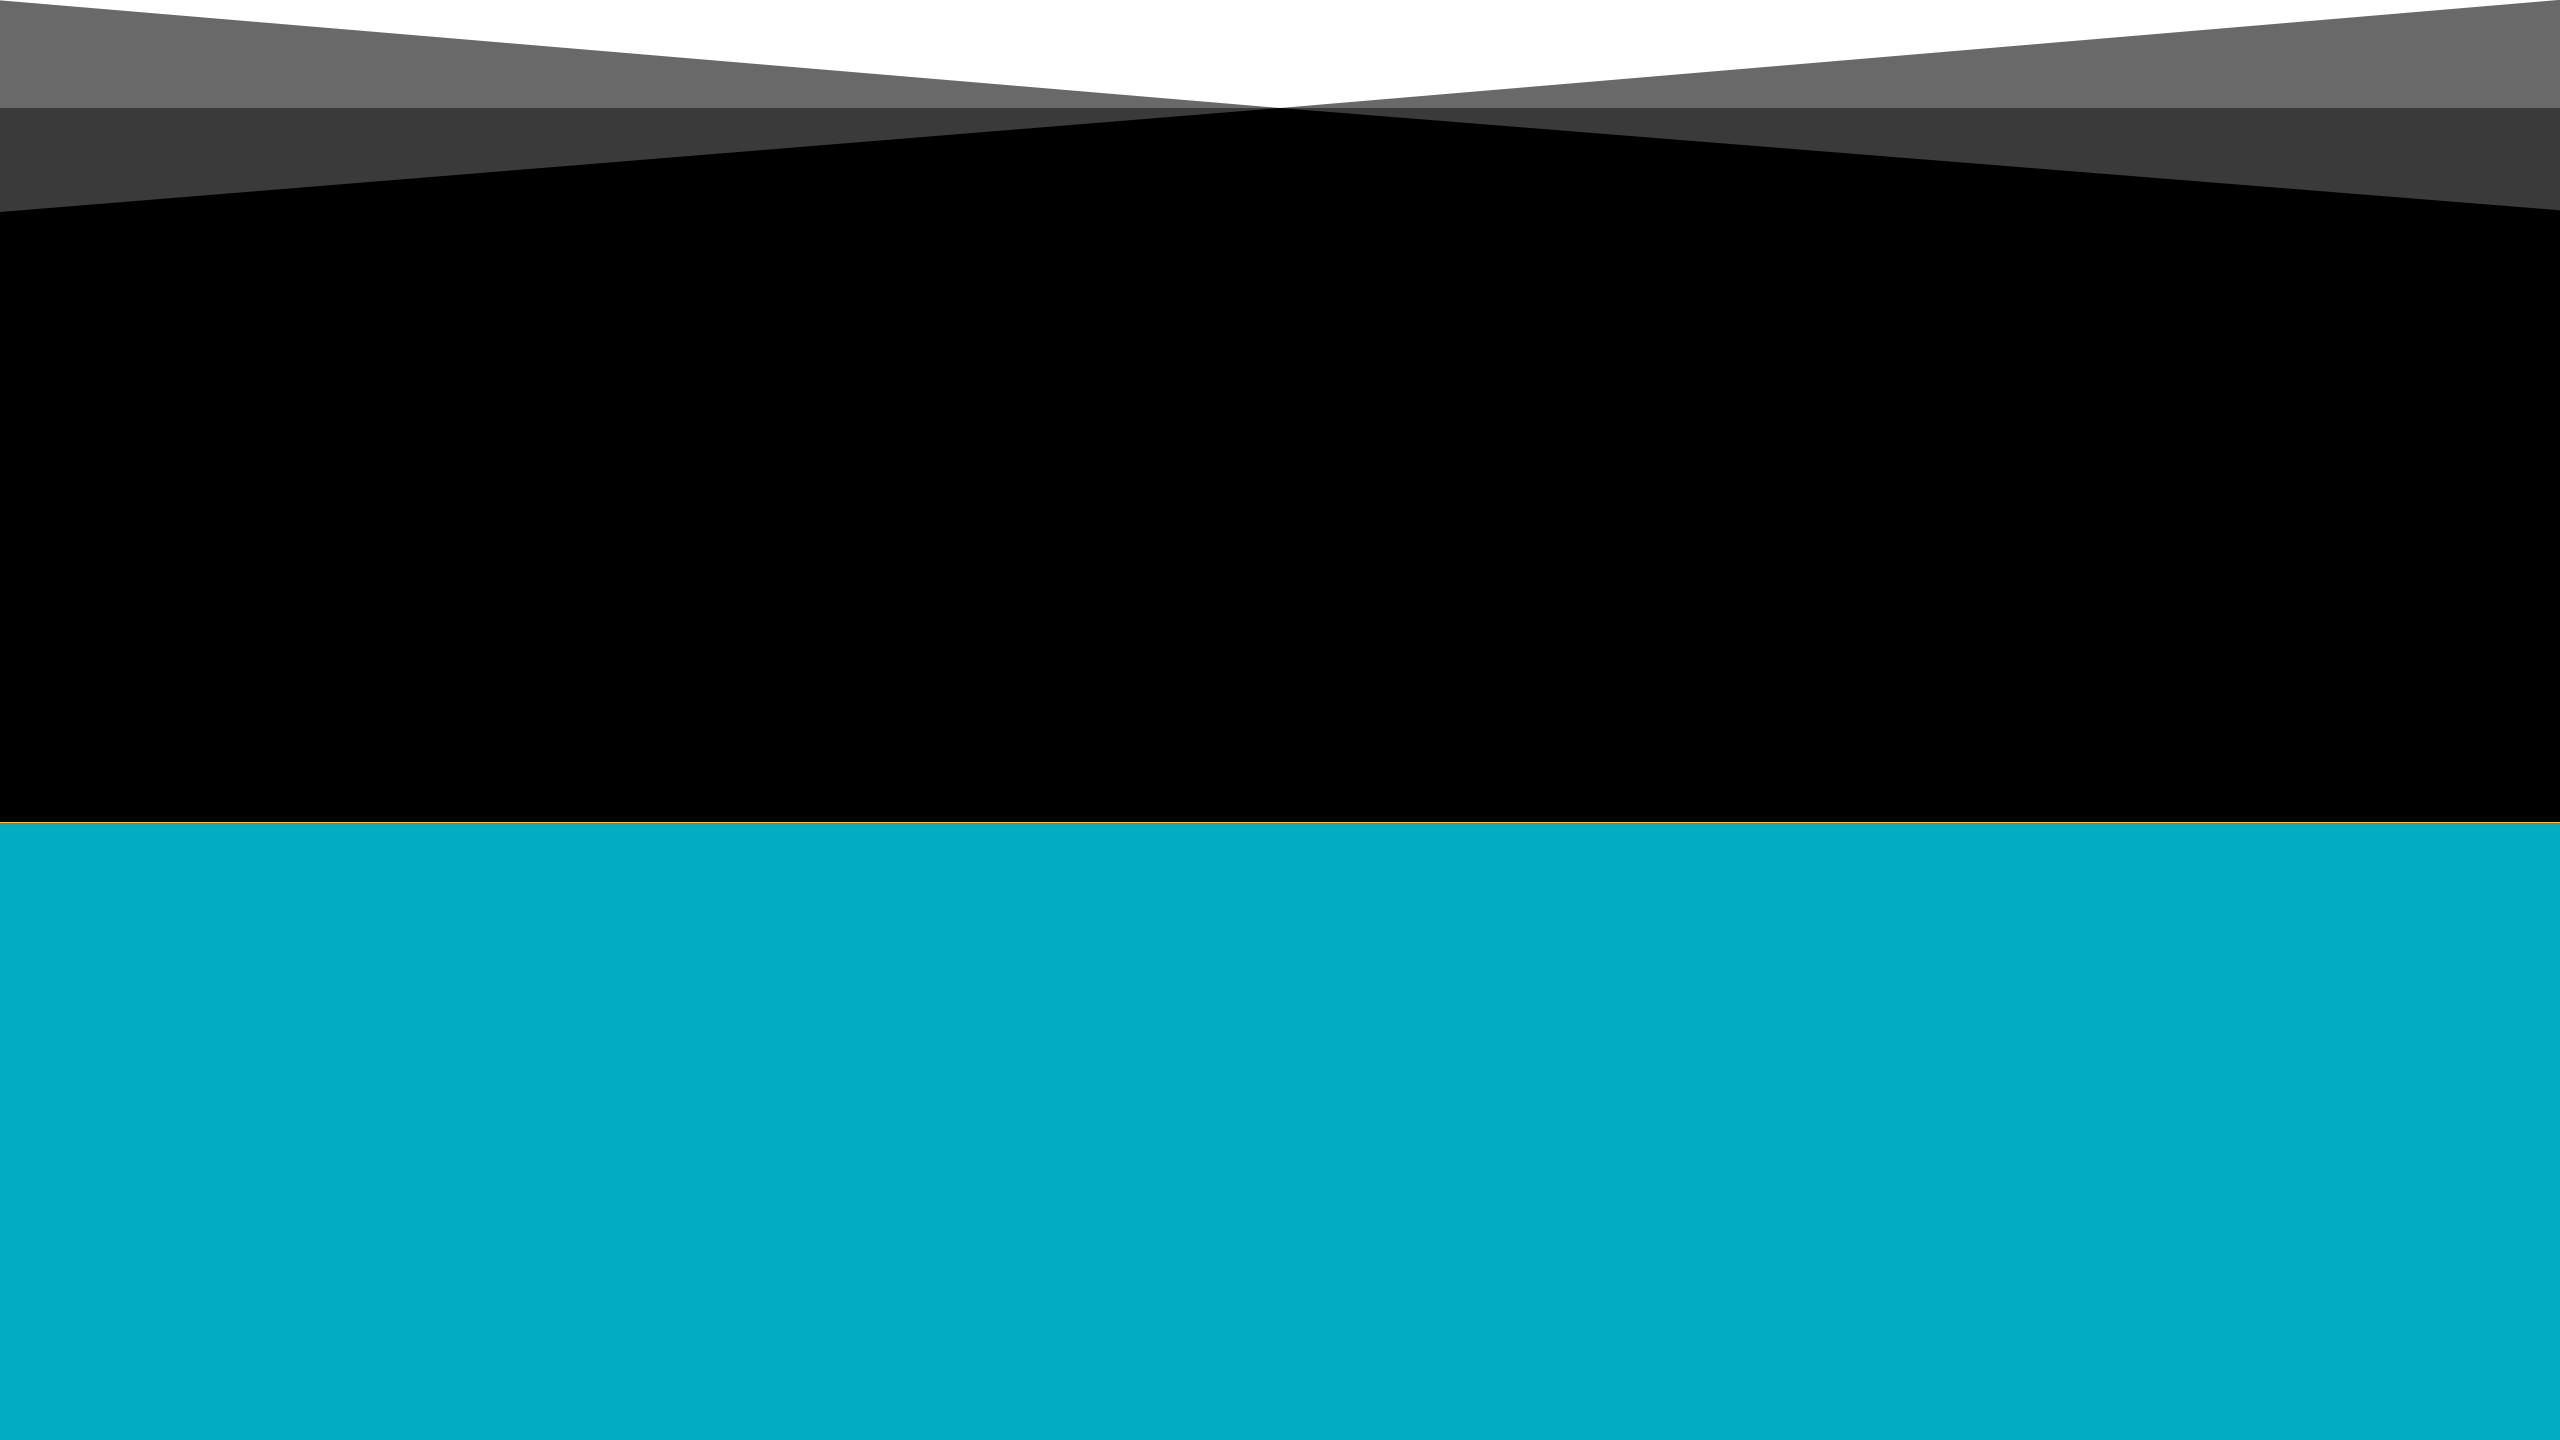
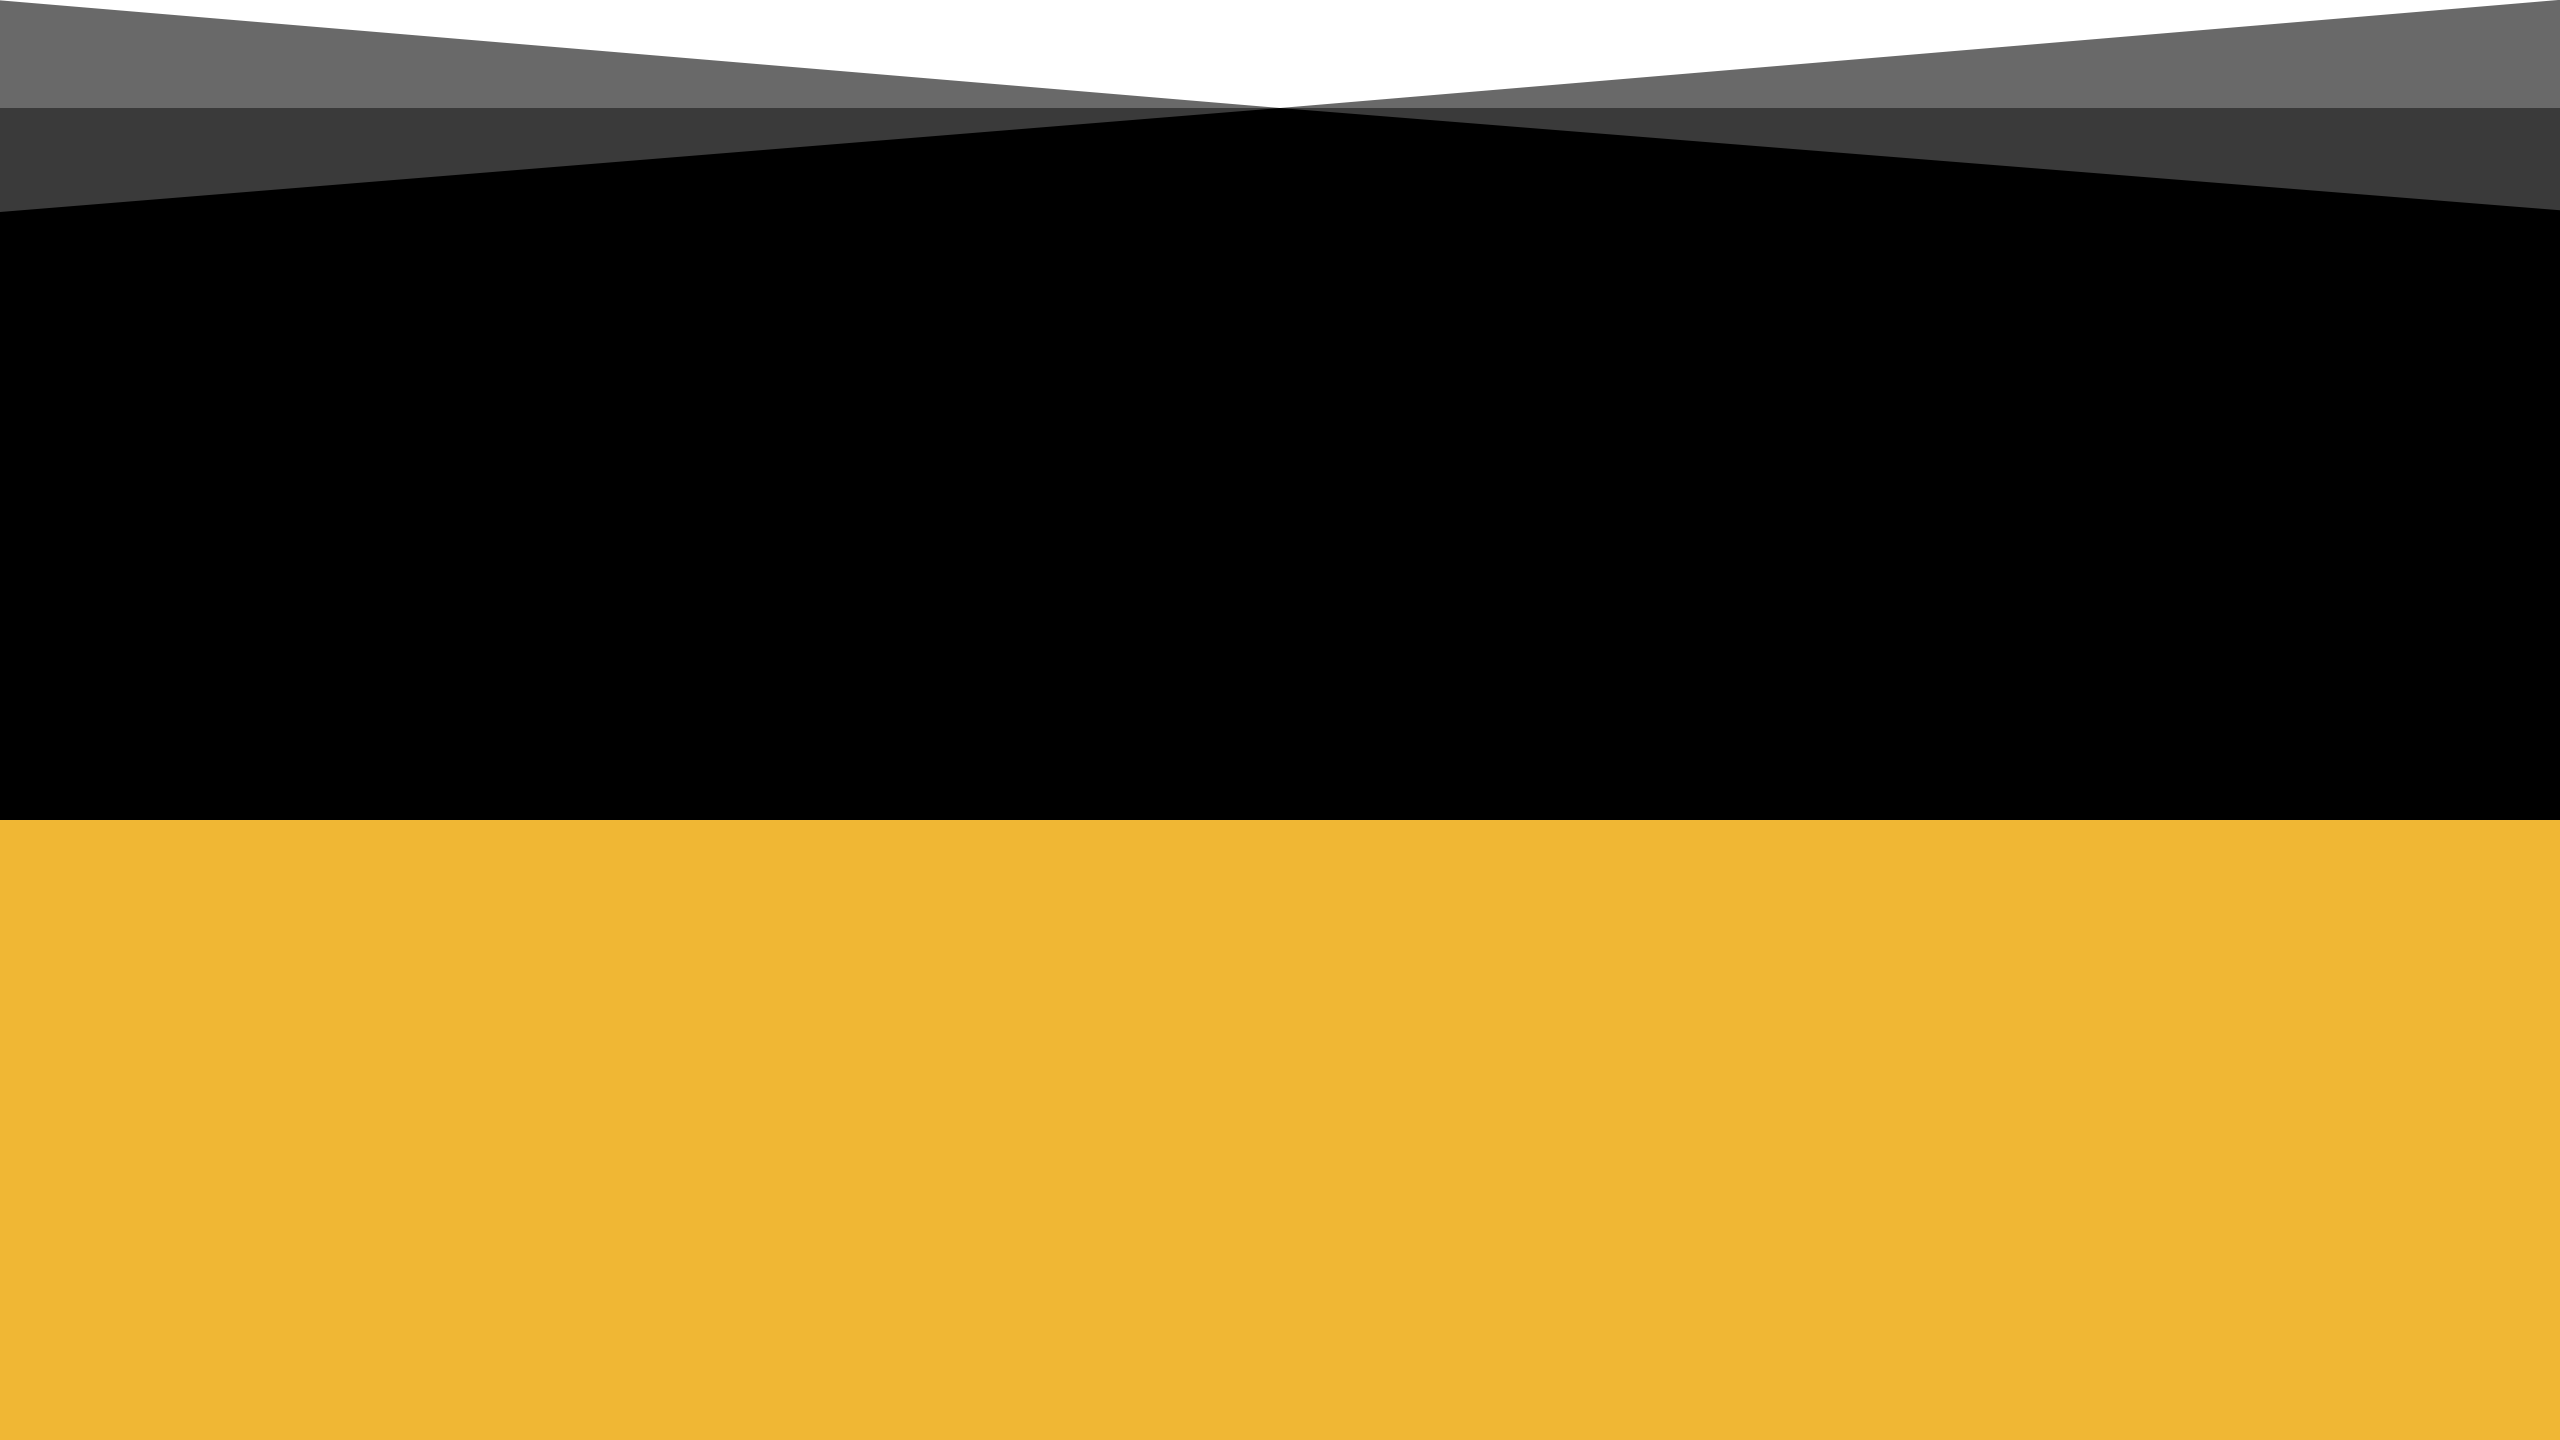
color change

diff --git a/index.html b/index.html
@@ -96,7 +96,7 @@
     
 	<!-- banner -->
   <div class="bg-video-wrap text-center" id="home">
-	    <video src="images/video_1.mp4" loop muted autoplay playsinline class="v1">
+	    <video src="images/video_1.mp4" loop muted autoplay class="v1" playsinline >
 	    </video>
 
 	    <div class="overlay">
@@ -112,7 +112,7 @@
 		                <div class="col-md-8 text-center">
 		                </div>
 		                <div class="col-md-2">
-		                    <span style="font-size:30px;cursor:pointer;text-align: right;" onclick="openNavR()" class="underline_3">Menu</span>
+		                    <span style="font-size:30px;cursor:pointer;text-align: right;color: #F0B734" onclick="openNavR()" >Menu</span>
 		                </div>
 		            </div>
 		        </div>
@@ -134,19 +134,19 @@
 
 
   <!-- slider -->
-  <section class="py-5 choose upslide1" id="choose">
+  <section class="py-5 choose" id="choose">
 
   	<div class="container-fluid choose_1 py-5">
   		<div class="row">
   			<div class="col-md-12 py-3">
-  				<h2 class="wow fadeInUp text-left pl-4" data-wow-duration="1s">WHY <span class="underline underline_7">CHOOSE</span> US?</h2>
+  				<h2 class="wow fadeInUp text-left pl-4" data-wow-duration="1s">WHY <span style="color: #F0B734">CHOOSE</span> US?</h2>
   				<p class="text-left pt-2 wow fadeInUp pl-4" data-wow-duration="1s">Because we focus on results. For us, it’s all about what adds value for you and your business.</p>
   			</div>
   		</div>
        
     </script>
     
-  <div class="wrap">
+  <div class="wrap upslide1">
   
   <!-- 
    <div class="glide multi">
@@ -373,18 +373,8 @@
   
   </div>
 </div>
-  </section>
-
-
-  <section class="py-5 choose downslide2" id="choose">
-
-    <div class="container-fluid choose_1 py-5">
-        <div class="row">
-            <div class="col-md-12 py-3">
-                <h2 class="wow fadeInUp text-left pl-4" data-wow-duration="1s">WHY <span class="underline">CHOOSE</span> US?</h2>
-                <p class="text-left pt-2 wow fadeInUp pl-4" data-wow-duration="1s">Because we focus on results. For us, it’s all about what adds value for you and your business.</p>
-            </div>
-        </div>
+<div class="container-fluid choose_1 py-5 downslide2">
+       
       <div class="slider-wrapper d-xl-flex align-items-center pt-5">
         <div class="owl-carousel main-carousel">
             <div class="item slide1">
@@ -515,15 +505,17 @@
             
         </div>
     </div>
-</div>
   </section>
+
+
+  
 <!-- slider -->
  <!-- <hr class="wow fadeInUp" data-wow-duration="1s"> -->
   <section class="py-5 services" id="services">
     <div class="container-fluid ">
         <div class="row">
             <div class="col-md-12 py-3">
-                <h2 class="wow fadeInUp text-left pl-4" data-wow-duration="1s">Our <span class="underline_6">SERVICES</span></h2>
+                <h2 class="wow fadeInUp text-left pl-4" data-wow-duration="1s">Our <span style="color: #F0B734">SERVICES</span></h2>
                 <p class="text-left pt-2 wow fadeInUp pl-4" data-wow-duration="1s">Much more than words, real tools and real actions … Here is what we are known for because we have built our services according to your need…</p>
             </div>
         </div>
@@ -534,7 +526,7 @@
                     <div class="row">
                         <div class="col-lg-6">
                             <h2 class="pl-3 pr-3 text-left">Meme<br>
-                                <span>Market<span class="underline_5">KING</span></span></h2>
+                                <span>Market<span style="color: #F0B734">KING</span></span></h2>
                            <!--  <div class="slider-img d-block d-sm-none"><img alt="Steer Your Vision" class="img-fluid"
                                     height="400px" src="images/owl_1.svg"
                                     title="Steer Your Vision"></div> -->
@@ -577,7 +569,7 @@
                     <div class="row">
                         <div class="col-lg-6">
                             <h2 class="pl-3 pr-3 text-left">Influencer<br>
-                                <span>MarketKING</span></h2>
+                                <span>Marketing</span></h2>
                            <!--  <div class="slider-img d-block d-sm-none"><img alt="Software Development Service"
                                     class="img-fluid" height="400px"
                                     src="images/owl_3.svg"
@@ -621,7 +613,7 @@
                     <div class="row">
                         <div class="col-lg-6">
                             <h2 class="pl-3 pr-3 text-left">Digital<br>
-                                <span>MarketKING</span></h2>
+                                <span>Marketing</span></h2>
                             <!-- <div class="slider-img d-block d-sm-none"><img alt="Data Analysis" class="img-fluid"
                                     height="400px" src="images/owl_5.svg" title="Data Analysis"></div> -->
                             <p class="p-3 text-left">We combine media, technology and creative to deliver better results.A full-service digital agency, with roots in search engine marketing, means everything we do is measurable and accountable.</p>
@@ -630,7 +622,7 @@
                         <div
                             class="col-lg-6 text-center">
                             <div class="slider-img"><img alt="Digital Marketing"
-                                    class="img-fluid" height="400px" src="images/digital.png" title="Digital Marketing"></div>
+                                    class="img-fluid" height="400px" src="images/pngegg.png" title="Digital Marketing"></div>
                         </div>
                     </div>
                 </div>
@@ -735,7 +727,7 @@
     <div class="container-fluid client">
         <div class="row">
             <div class="col-md-12">
-                <h2 class="wow fadeInUp text-left pl-4 text-dark" data-wow-duration="1s">OUR <span class="underline text-dark">CLIENTS</span></h2>
+                <h2 class="wow fadeInUp text-left pl-4 text-dark" data-wow-duration="1s">OUR <span  style="color: #F0B734">CLIENTS</span></h2>
                 <p class="text-left pt-2 wow fadeInUp pl-4 text-dark" data-wow-duration="1s">Be the next brand featured on our website</p>
             </div>
         </div>
@@ -788,7 +780,7 @@
                     <img src="images/tiktok.png" class="img-fluid" width="150" height="150">
                 </div>
                 <div class="col-md">
-                    <img src="images/zee5.png" class="img-fluid" width="150" height="150">
+                    <img src="images/cash karo.png" class="img-fluid" width="150" height="150">
                 </div>
             </div>
         </div>
@@ -844,7 +836,7 @@
      	<div class="container-fluid py-5">
      		<div class="row py-3">
      			<div class="col-md-6">
-     				<p class="pl-4">Where you can find our <br> <span class="underline_4 font-weight-bold">CreativeFuel</span> offices</p>
+     				<p class="pl-4">Where you can find our <br> <span class="font-weight-bold" style="color: #F0B734">CreativeFuel</span> offices</p>
      			</div>
      			<div class="col-md-6">
      				<br>
@@ -870,7 +862,7 @@
 
   <section class="contactsec" id="Contact">
   	<div class="bg-video-wrap_1">
-	    <video src="images/video_2.mp4" loop muted autoplay playsinline class="v2">
+	    <video src="images/video_2.mp4" loop muted autoplay class="v2" playsinline >
 	    </video>
 	    <div class="overlay">
 	    </div>
@@ -912,7 +904,7 @@
   	<div class="py-5">
   		<div class="row">
   			<div class="col-md-12 pb-4">
-  				<h2 class="wow fadeInUp pl-4" data-wow-duration="1s" data-wow-delay="0.5s">Let's create something together,<br> Drop us a <a href="mailto:connect@creativefuel.io?subject=feedback">Line</a>!</h2>
+  				<h2 class="wow fadeInUp pl-4" data-wow-duration="1s" data-wow-delay="0.5s">Let's create something together,<br> Drop us a <a href="mailto:connect@creativefuel.io?subject=feedback" style="color: #F0B734">Line</a>!</h2>
   			</div>
 
   			<div class="col-md-7 bg-light py-4 wow fadeInLeft link_1" data-wow-duration="1s">
@@ -920,7 +912,7 @@
   				<a href="https://www.instagram.com/creativefuel.pr/" target="_blank" class="wow fadeInUp text-dark pl-2" data-wow-duration="1s" data-wow-delay="1.3s">Instagram</a>
   				<a href="https://www.facebook.com/Creativefuelio-108064270946273/" target="_blank" class="wow fadeInUp text-dark pl-2" data-wow-duration="1s" data-wow-delay="1.4s">Facebook</a>
   			</div>
-            <div class="col-md-11 bg-light py-4 wow fadeInLeft link_2" data-wow-duration="1s">
+            <div class="col-md-11 bg-light py-4 wow fadeInLeft link_2 px-5" data-wow-duration="1s">
                 <a href="mailto:connect@creativefuel.io?subject=feedback" class="wow fadeInUp text-dark pl-2" data-wow-duration="1s" data-wow-delay="1.2s">connect@creativefuel.io</a>
                 <a href="https://www.instagram.com/creativefuel.pr/" target="_blank" class="wow fadeInUp text-dark pl-2" data-wow-duration="1s" data-wow-delay="1.3s">Instagram</a>
                 <a href="https://www.facebook.com/Creativefuelio-108064270946273/" target="_blank" class="wow fadeInUp text-dark pl-2" data-wow-duration="1s" data-wow-delay="1.4s">Facebook</a>
